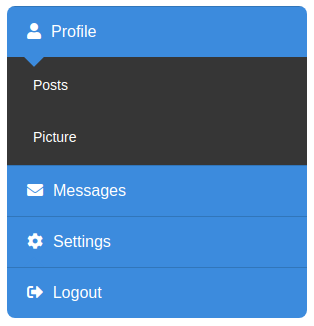
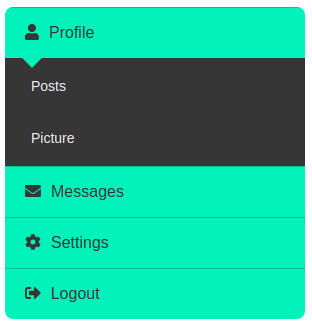
updated the menu, md, and stuff

diff --git a/cool_navbar/style.css b/cool_navbar/style.css
@@ -20,15 +20,18 @@
 }
 
 .item {
-    border-top: 1px solid #2980b9;
+    border-top: 1px solid #25b898;
     overflow: hidden;
 }
+
+
+
 
 .btn {
     display: block;
     padding: 16px 20px;
-    background: #3498db;
-    color: white;
+    background: #2de5bd;
+    color: #333;
     position: relative;
 }
 
@@ -37,7 +40,7 @@
     position: absolute;
     width: 14px;
     height: 14px;
-    background: #3498db;
+    background: #2de5bd;
     left: 20px;
     bottom: -7px;
     transform: rotate(45deg);
@@ -57,7 +60,7 @@
 .smenu a {
     display: block;
     padding: 16px 26px;
-    color: white;
+    color: #eee;
     font-size: 14px;
     margin: 4px 0;
     position: relative;
@@ -68,7 +71,7 @@
     position: absolute;
     width: 6px;
     height: 100%;
-    background: #3498db;
+    background: #2de5bd;
     left: 0;
     top: 0;
     transition: 0.3s;

diff --git a/cool_navbar/readme.md b/cool_navbar/readme.md
@@ -1,3 +1,6 @@
 ## A Cool Menu
 
+I cant get the blasted first border top to go away
+So, if you can, please submit a pull request
+
 ![alt text](menu.png)
